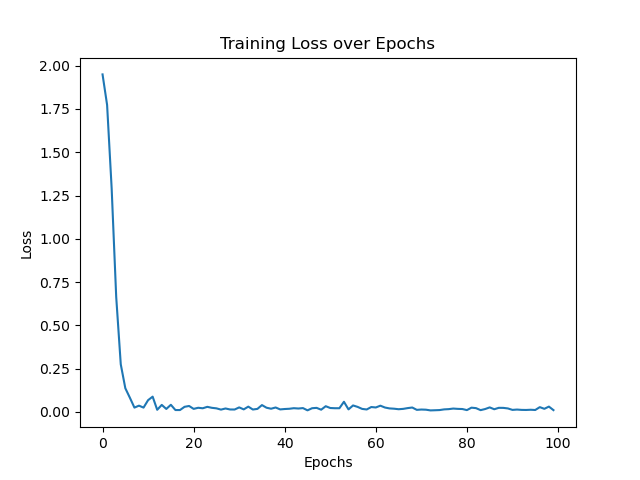
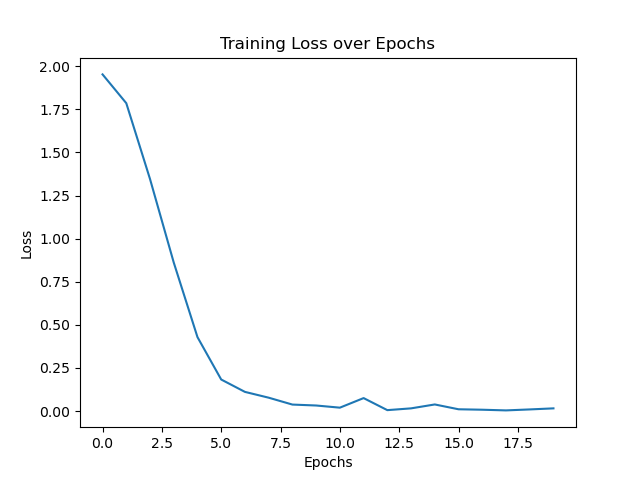
reduce epochs

diff --git a/ECS189G_Winter_2022_Source_Code_Template/source_code/stage_5_code/Cora_GCN_Method.py b/ECS189G_Winter_2022_Source_Code_Template/source_code/stage_5_code/Cora_GCN_Method.py
@@ -15,7 +15,7 @@ class Cora_GCN_Method(nn.Module, method):
     weight_decay = 1e-3
     learning_rate = 1.5e-2
     momentum = 0.9
-    max_epoch = 100
+    max_epoch = 20
 
     def __init__(self, mName, mDescription, nfeat, nclass):
         method.__init__(self, mName, mDescription)
